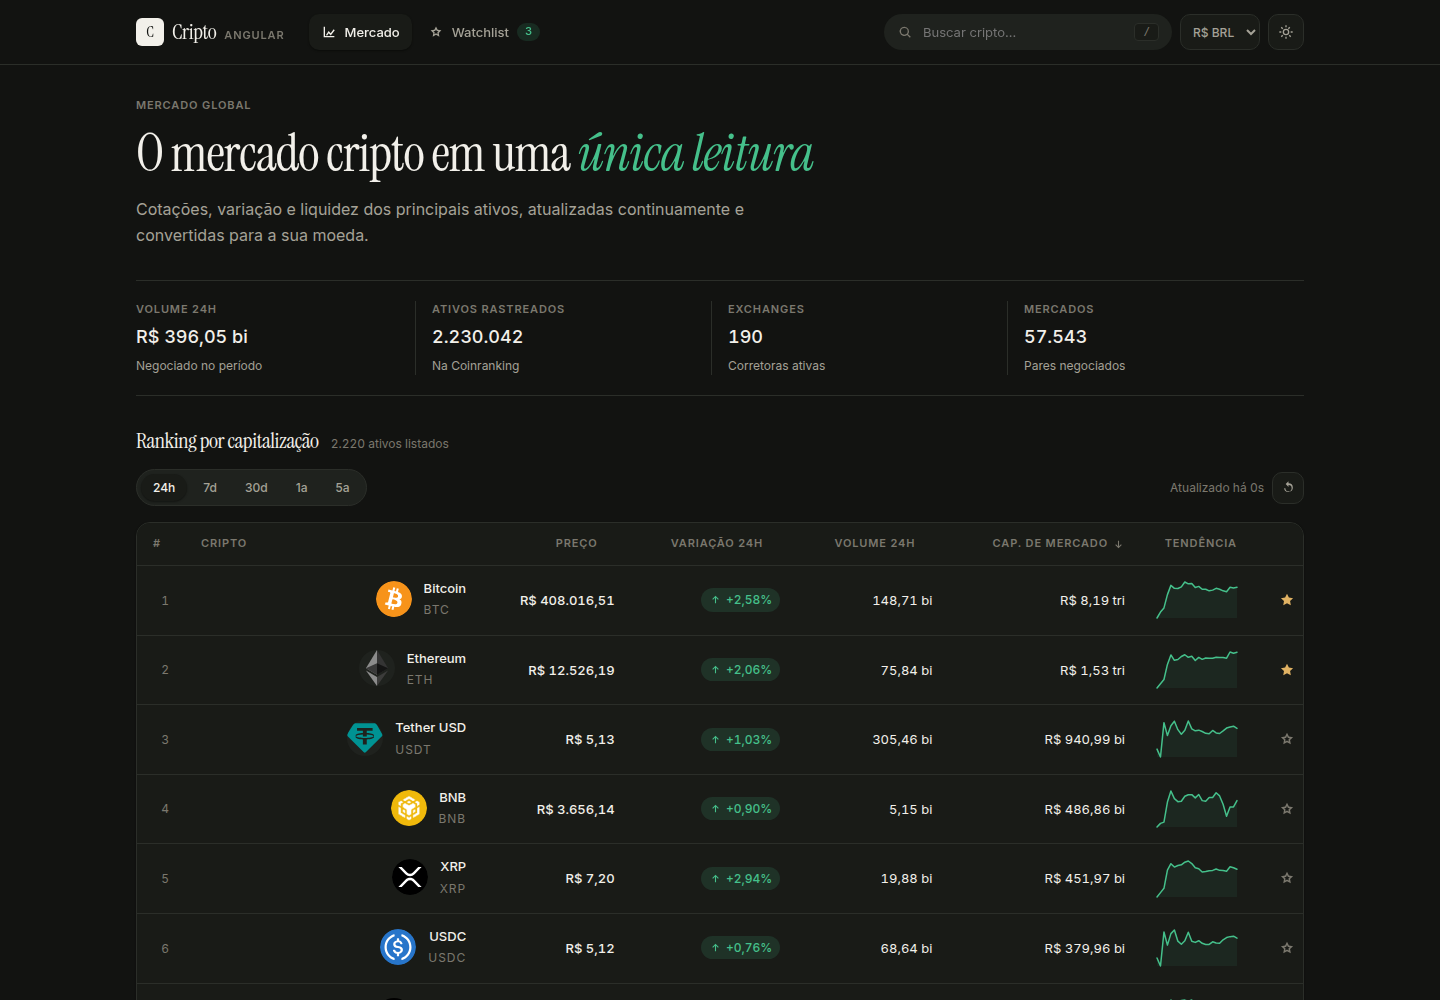
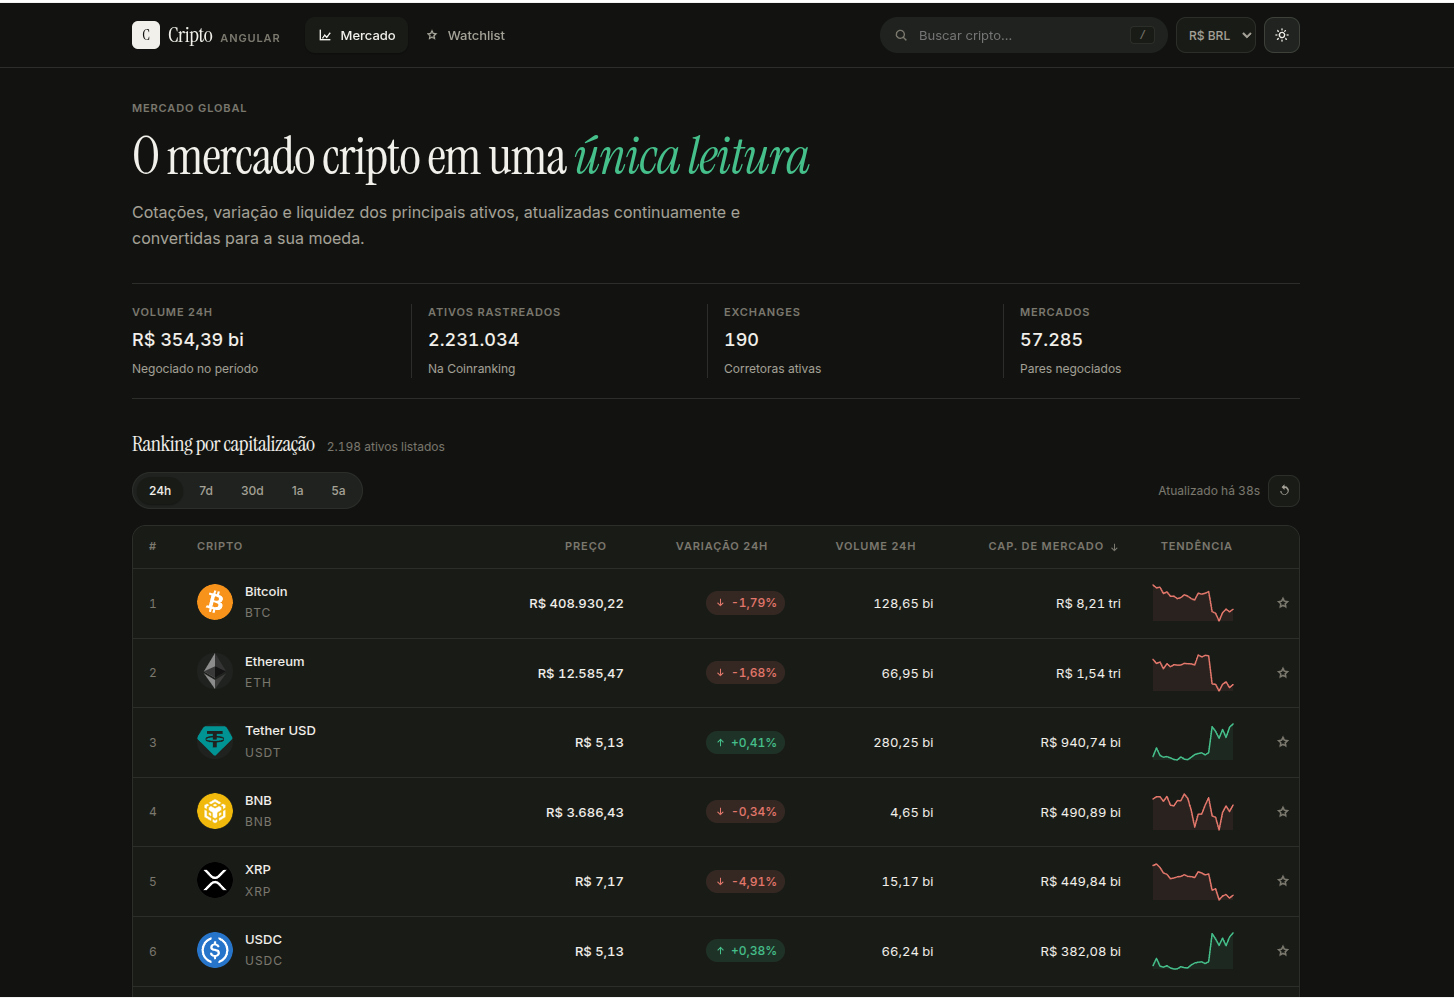
fix(deploy): move per-app build settings into the Vercel projects
A remote build reads vercel.json from the repository root, so the
per-app files under deploy/ never applied: --local-config only affects
a local build, and every project ended up running build:shell. On top of
that, npm only runs the prebuild hook for `build`, never for
`build:<app>`, so the environment files and the federation manifest were
never generated.

The root config now carries only what all four share - the SPA rewrite
and the CORS headers for remoteEntry.json - while each project owns its
build command and output directory, with the generators called
explicitly. The README documents the settings and the live URLs.

Claude-Session: https://claude.ai/code/session_0151zPR5ShEZdi4rY5CAPkGn

diff --git a/README.md b/README.md
@@ -198,34 +198,69 @@ Certifique-se de que você tem o [Docker](https://www.docker.com/get-started) e 
 
 ## Deploy 🚢
 
-Cada microfrontend é publicado de forma independente. Na Vercel, crie um projeto por app usando a configuração correspondente:
+Está no ar: **https://crypto-mfe-shell.vercel.app**
 
-```bash
-vercel deploy --prod --local-config=deploy/vercel.market.json
-vercel deploy --prod --local-config=deploy/vercel.analytics.json
-vercel deploy --prod --local-config=deploy/vercel.watchlist.json
-vercel deploy --prod --local-config=deploy/vercel.shell.json
-```
+| Microfrontend | URL                                     |
+| ------------- | --------------------------------------- |
+| shell (host)  | https://crypto-mfe-shell.vercel.app     |
+| market        | https://crypto-mfe-market.vercel.app    |
+| analytics     | https://crypto-mfe-analytics.vercel.app |
+| watchlist     | https://crypto-mfe-watchlist.vercel.app |
 
-Publique os três remotes primeiro e informe as URLs públicas no `.env` antes de publicar o shell:
+Cada microfrontend é **um projeto Vercel separado**, publicado de forma independente a partir deste mesmo repositório. O que muda entre eles são as configurações de build do projeto:
+
+| Projeto                | Build Command                                                              | Output Directory         |
+| ---------------------- | -------------------------------------------------------------------------- | ------------------------ |
+| `crypto-mfe-market`    | `npm run generate:env && npm run build:market`                             | `dist/market/browser`    |
+| `crypto-mfe-analytics` | `npm run generate:env && npm run build:analytics`                          | `dist/analytics/browser` |
+| `crypto-mfe-watchlist` | `npm run generate:env && npm run build:watchlist`                          | `dist/watchlist/browser` |
+| `crypto-mfe-shell`     | `npm run generate:env && npm run generate:manifest && npm run build:shell` | `dist/shell/browser`     |
+
+> As configurações vivem **no projeto**, não em arquivos `vercel.json` por app. O `vercel.json` da raiz é compartilhado pelos quatro e carrega apenas o que é comum: o rewrite de SPA e os headers de CORS do `remoteEntry.json`. Um `--local-config` na linha de comando só afeta builds locais — o build remoto lê o `vercel.json` da raiz e ignoraria a configuração por app.
+
+### Variáveis de ambiente
+
+Nos três remotes e no shell:
 
 ```env
-MFE_MARKET_URL=https://market.seu-dominio.com
-MFE_ANALYTICS_URL=https://analytics.seu-dominio.com
-MFE_WATCHLIST_URL=https://watchlist.seu-dominio.com
+COINRANKING_API_KEY=...
+COINRANKING_BASE_URL=https://api.coinranking.com/v2
 ```
 
-O `prebuild` regenera o `federation.manifest.json` com esses valores.
+E, **apenas no shell**, as URLs públicas dos remotes:
+
+```env
+MFE_MARKET_URL=https://crypto-mfe-market.vercel.app
+MFE_ANALYTICS_URL=https://crypto-mfe-analytics.vercel.app
+MFE_WATCHLIST_URL=https://crypto-mfe-watchlist.vercel.app
+```
+
+O build do shell gera o `federation.manifest.json` a partir delas. Trocar a URL de um remote é só alterar a variável e republicar **o shell** — os remotes não precisam de rebuild.
+
+### Publicando
+
+Os remotes primeiro, o shell por último:
+
+```bash
+vercel deploy --prod --project crypto-mfe-market
+vercel deploy --prod --project crypto-mfe-analytics
+vercel deploy --prod --project crypto-mfe-watchlist
+vercel deploy --prod --project crypto-mfe-shell
+```
 
 ## Troubleshooting 🩺
 
-**Erros `404` de chunk ou `ngDevMode is not defined` no navegador durante o desenvolvimento.**
+**Erros `404` de chunk ou `ngDevMode is not defined` durante o desenvolvimento.**
 
 Acontece quando um build de produção roda com os dev servers no ar: os dois compartilham o cache de artefatos da federação em `.angular/cache`. Pare os servidores e reinicie:
 
 ```bash
 npm run clean && npm start
 ```
+
+**O mesmo erro em produção, logo após um deploy.**
+
+É cache do navegador. Se a URL de um microfrontend já serviu outra aplicação, o `index.html` antigo e o import map continuam em cache e se misturam com os chunks novos. Um recarregamento forçado (`Ctrl+Shift+R`) resolve.
 
 ---
 
